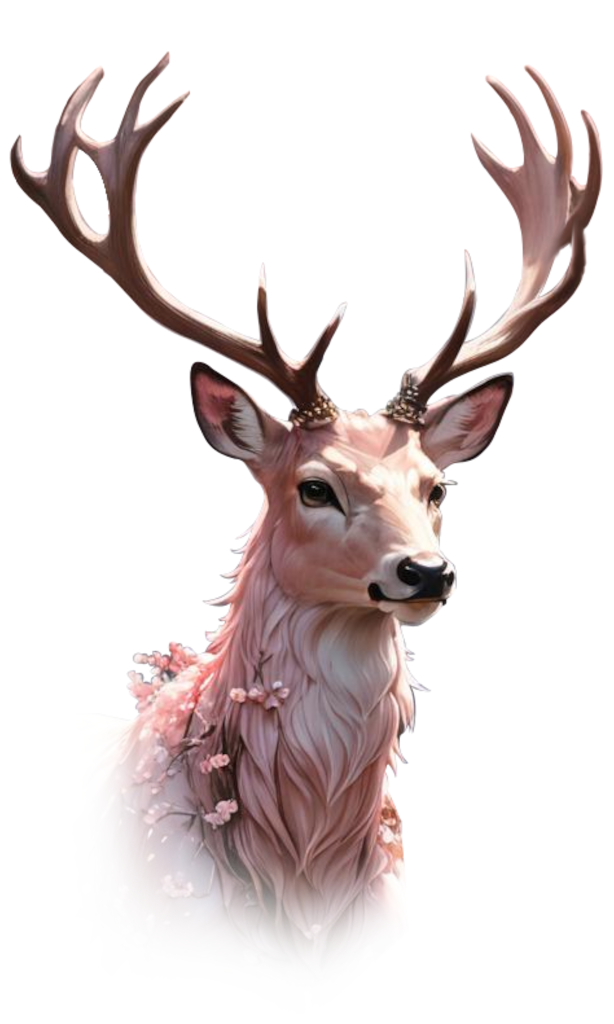
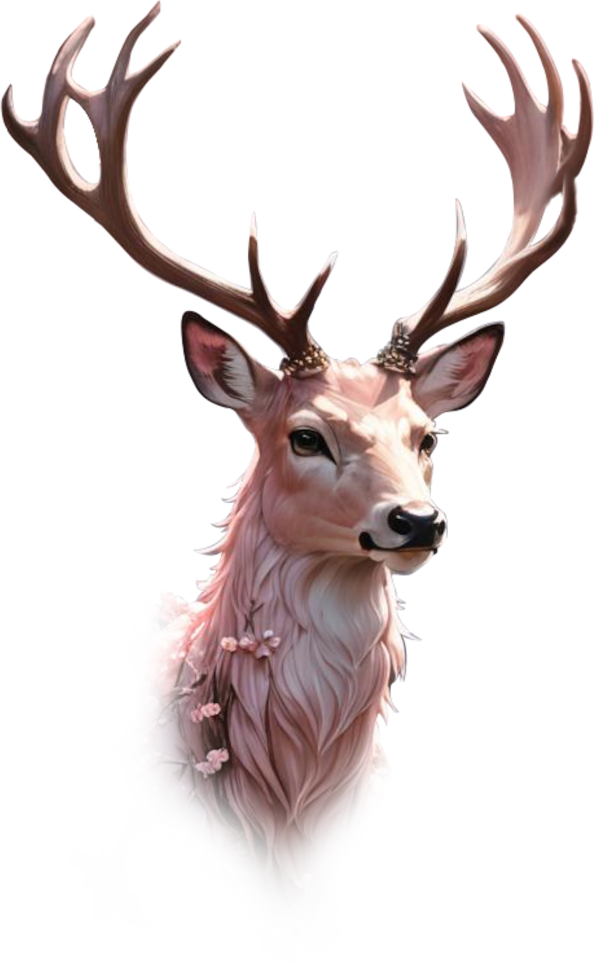
added second deer-image (summer-deer)

Changed region(s): [[0.0, 0.0, 1.0, 0.9346]]

diff --git a/Fun-with-HoverCards/Hover_Cards_4Seasons/style.css b/Fun-with-HoverCards/Hover_Cards_4Seasons/style.css
@@ -45,7 +45,6 @@
 /* -------------------HOVER------------------ */
 
 .season-container:hover .season-back {
-  /* object-fit: cover; */
   border-radius: 60px;
   height: 20vw;
   filter: grayscale(100%) blur(4px);
@@ -54,7 +53,7 @@
 
 .season-container:hover .season-deer {
   opacity: 100;
-  width: 20vw;
+  width: 22vw;
   transition: opacity 0.8s ease, width 0.8s ease;
 
 }

diff --git a/Fun-with-HoverCards/Hover_Cards_4Seasons/index.html b/Fun-with-HoverCards/Hover_Cards_4Seasons/index.html
@@ -16,6 +16,7 @@
       <!-- SUMMER -------------------------------->
       <div class="season-container">
         <img class="season-props summer season-back" src="./images/summer-back.png" alt="" />
+        <img class="season-props season-deer" src="./images/summer-deer.png" alt="">
       </div>
 
       <!-- AUTUMN -------------------------------->
